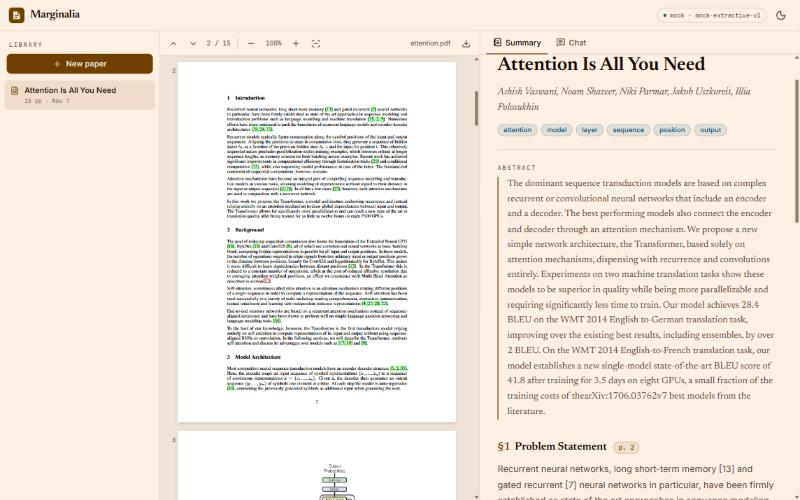
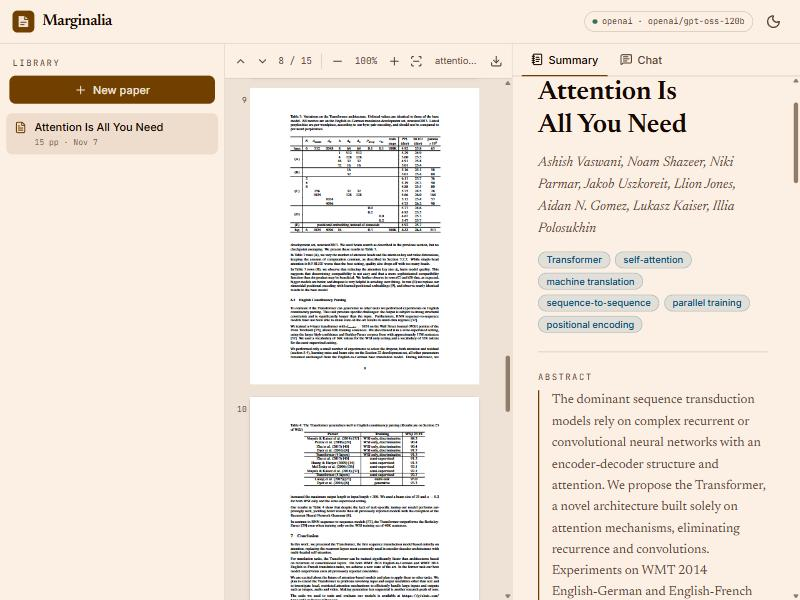
docs: add real-model screenshots and Groq free-tier example

diff --git a/README.md b/README.md
@@ -116,7 +116,19 @@ LLM_PROVIDER=openai
 OPENAI_BASE_URL=http://localhost:11434/v1
 OPENAI_API_KEY=ollama
 LLM_MODEL=llama3.1
+
+# Groq free tier (8000 tokens/minute, so shrink the summary pipeline)
+LLM_PROVIDER=openai
+OPENAI_BASE_URL=https://api.groq.com/openai/v1
+OPENAI_API_KEY=gsk_...
+LLM_MODEL=openai/gpt-oss-120b
+SUMMARY_SINGLE_PASS_TOKENS=4000
+SUMMARY_MAP_GROUP_TOKENS=3000
+TOP_K=4
 ```
+
+The screenshots above were taken with the Groq setup (`openai/gpt-oss-120b`). When a provider reports a
+tokens-per-minute limit, the backend waits and retries instead of failing.
 
 The header pill in the UI shows which provider and model are active. Details: [backend/README.md](backend/README.md).
 
